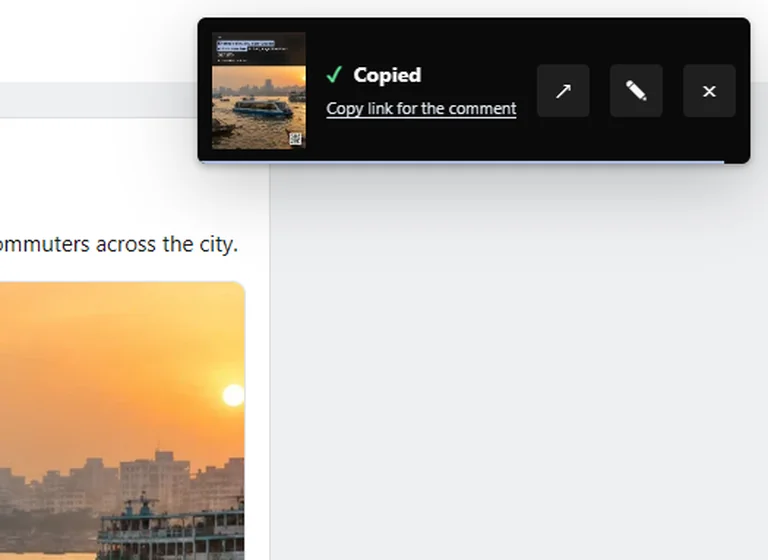
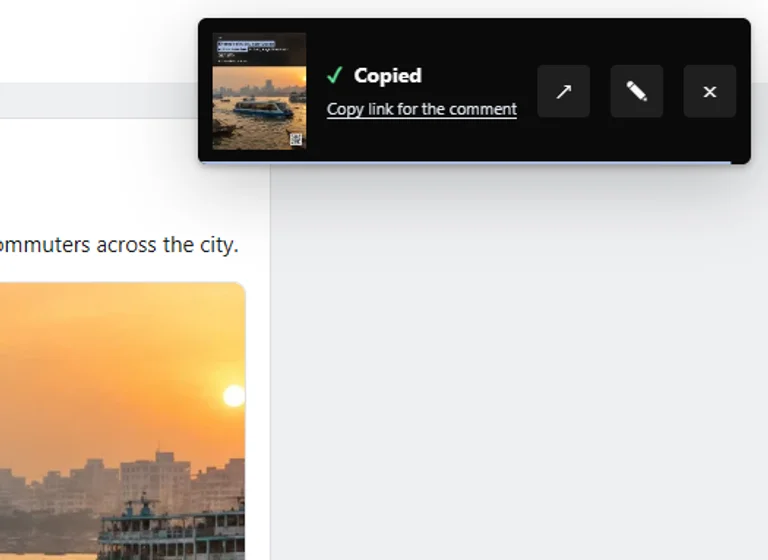
fix(extension): refine popup controls and capture the landing preview

diff --git a/apps/extension/src/popup.css b/apps/extension/src/popup.css
@@ -174,7 +174,23 @@ a:focus-visible {
   min-block-size: 26px;
   gap: 6px;
   padding: 4px 8px;
+  background: #f4f4f5;
   font-size: 12px;
+}
+
+.clip-editor-popup .clip-auto span:first-child {
+  inline-size: 6px;
+  block-size: 6px;
+}
+
+.clip-editor-popup .clip-preview-close {
+  border-radius: 0;
+  background: rgb(10 10 10 / 60%);
+}
+
+.clip-editor-popup .clip-preview-close svg {
+  inline-size: 12px;
+  block-size: 12px;
 }
 
 .clip-text-trigger:not(:focus) {
@@ -203,10 +219,19 @@ a:focus-visible {
 .clip-text-shortcuts {
   display: flex;
   align-items: center;
-  gap: 6px;
-  padding: 4px 7px;
+  gap: 8px;
+  padding: 4px 8px;
   overflow-x: auto;
   background: #0a0a0a;
+}
+
+.clip-text-shortcuts > .clip-control-row {
+  flex: none;
+}
+
+.clip-text-shortcuts > .clip-control-row:first-child {
+  padding-inline-end: 15px;
+  border-inline-end: 1px solid rgb(255 255 255 / 20%);
 }
 
 .clip-text-shortcuts .clip-control-row > span {
@@ -227,23 +252,49 @@ a:focus-visible {
 }
 
 .clip-text-shortcuts .clip-segment {
-  padding-inline: 6px;
+  min-inline-size: 40px;
+  padding-inline: 7px;
+  font-weight: 500;
+}
+
+.clip-text-shortcuts .clip-segment:first-child {
+  min-inline-size: 36px;
 }
 
 .clip-text-shortcuts .clip-segment[aria-pressed='true'] {
-  background: #303034;
+  background: #323232;
+  font-weight: 500;
 }
 
-.clip-text-shortcuts .clip-swatch {
-  inline-size: 21px;
+.clip-text-shortcuts .clip-swatch,
+.clip-text-shortcuts .clip-custom-color {
+  inline-size: 22px;
+}
+
+.clip-text-shortcuts .clip-swatch::after {
+  inline-size: 12px;
+  block-size: 12px;
 }
 
 .clip-text-shortcuts .clip-swatch[aria-pressed='true'] {
-  border: 1px solid #fff;
+  border: 0;
 }
 
-.clip-text-shortcuts .clip-custom-color {
+.clip-text-shortcuts .clip-swatch[aria-pressed='true']::before {
+  position: absolute;
   inline-size: 18px;
+  block-size: 18px;
+  border: 1px solid #fff;
+  content: '';
+}
+
+.clip-text-shortcuts .clip-custom-color::-webkit-color-swatch-wrapper {
+  padding: 6px 5px;
+}
+
+.clip-text-shortcuts .clip-custom-color::-webkit-color-swatch {
+  border: 1px dashed rgb(255 255 255 / 55%);
+  background: transparent !important;
 }
 
 .clip-text-palette summary,
@@ -259,7 +310,10 @@ a:focus-visible {
 }
 
 .clip-text-palette {
+  flex: none;
   margin-inline-start: auto;
+  padding-inline-start: 8px;
+  border-inline-start: 1px solid rgb(255 255 255 / 20%);
 }
 
 .clip-text-palette .clip-control-row {
@@ -275,9 +329,7 @@ a:focus-visible {
   padding: 2px 8px;
   width: fit-content;
   text-align: center;
-  text-shadow:
-    0 1px 3px #000,
-    0 0 3px #000;
+  text-shadow: 0 1px 2px rgb(0 0 0 / 60%);
 }
 
 .clip-text-word-menu .clip-text-controls {

diff --git a/apps/landing/scripts/capture-extension.ts b/apps/landing/scripts/capture-extension.ts
@@ -1,0 +1,44 @@
+import { execFileSync } from 'node:child_process';
+import { mkdtemp, unlink, rmdir } from 'node:fs/promises';
+import { createRequire } from 'node:module';
+import { tmpdir } from 'node:os';
+import { join } from 'node:path';
+import { fileURLToPath } from 'node:url';
+import sharp from 'sharp';
+
+const root = new URL('../../../', import.meta.url);
+const require = createRequire(new URL('package.json', root));
+const directory = await mkdtemp(join(tmpdir(), 'clipcard-landing-'));
+const screenshot = join(directory, 'extension.png');
+const destination = fileURLToPath(
+  new URL('../src/media/feature-extension.webp', import.meta.url),
+);
+
+try {
+  execFileSync(
+    process.execPath,
+    [
+      require.resolve('@playwright/test/cli'),
+      'test',
+      '--project=extension',
+      '--workers=1',
+      '--grep',
+      'copies the linked article with its canonical QR',
+    ],
+    {
+      cwd: root,
+      env: { ...process.env, CLIPCARD_LANDING_SCREENSHOT: screenshot },
+      stdio: 'inherit',
+    },
+  );
+  await sharp(screenshot)
+    .resize({ width: 768, height: 560 })
+    .webp({ quality: 85 })
+    .toFile(destination);
+  console.log(destination);
+} finally {
+  await unlink(screenshot).catch((error: NodeJS.ErrnoException) => {
+    if (error.code !== 'ENOENT') throw error;
+  });
+  await rmdir(directory);
+}

diff --git a/tests/e2e/extension.spec.ts b/tests/e2e/extension.spec.ts
@@ -213,6 +213,14 @@ test.describe('registered browser actions', () => {
       }
     }
     expect(brightPhotoSamples).toBeGreaterThan(20);
+    if (process.env.CLIPCARD_LANDING_SCREENSHOT) {
+      const viewport = page.viewportSize();
+      if (!viewport) throw new Error('Missing landing capture viewport');
+      await page.screenshot({
+        path: process.env.CLIPCARD_LANDING_SCREENSHOT,
+        clip: { x: viewport.width - 525, y: 0, width: 525, height: 383 },
+      });
+    }
     await clickToastButton(page, 'Copy link for the comment');
     await expect
       .poll(() => page.evaluate(() => navigator.clipboard.readText()))

diff --git a/docs/DECISIONS.md b/docs/DECISIONS.md
@@ -2,6 +2,11 @@
 
 Newest first. Codex appends here when a spec is unclear or wrong (see AGENTS.md).
 
+## 2026-11-20 · R2 popup references
+
+- P1 and P2 show Grid, Video and Save for later. R2 hides those controls as specified in its handover. Copy fills the available space in the action row.
+- The R2 visual comparison masks the surrounding page and includes the full popup. The measured differences after refining the text controls were 3.67% for P1 and 5.02% for P2.
+
 ## 2026-11-20 · R2 extension export
 
 - Chromium’s offscreen document captures the rendered DOM with `modern-screenshot` and encodes the resulting canvas synchronously. Profiling showed that Chromium’s async PNG encoding added about one second when the article tab was in front.
